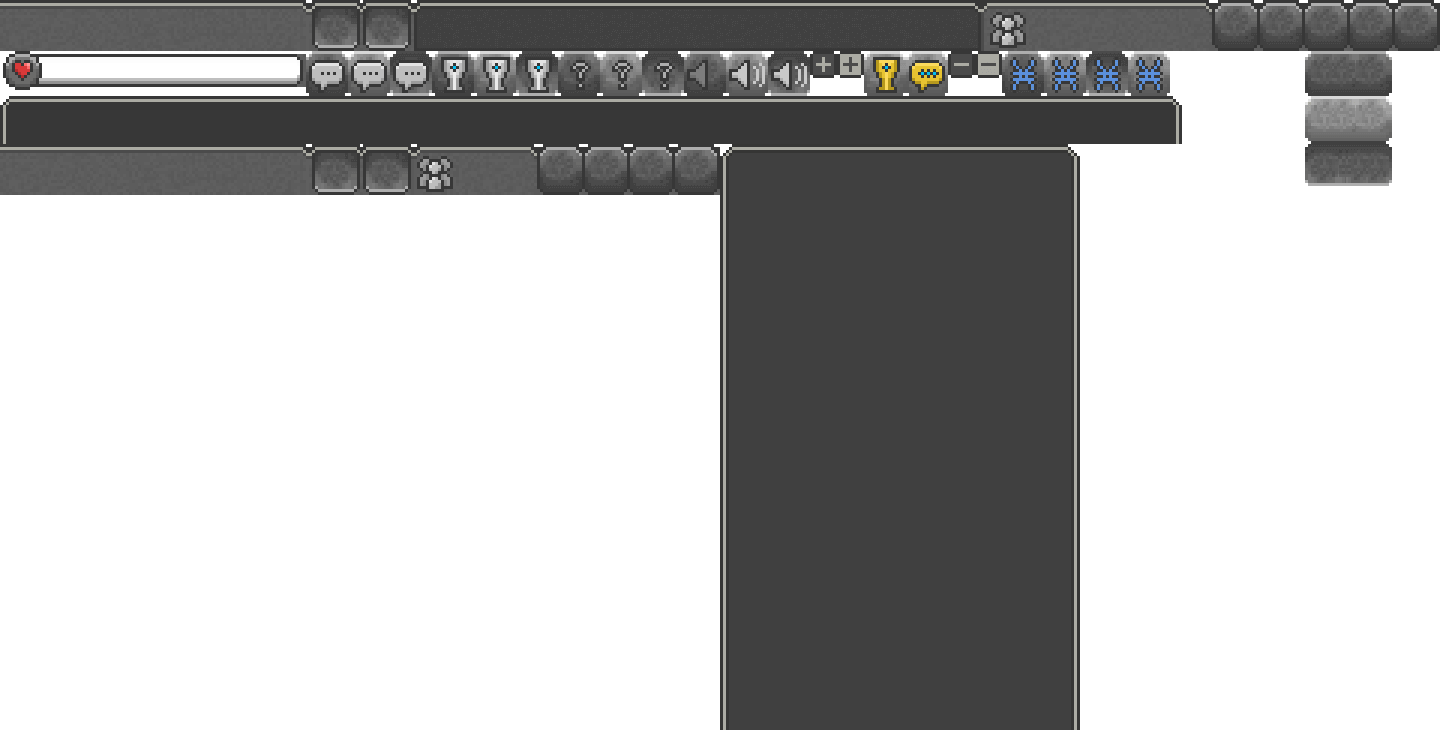
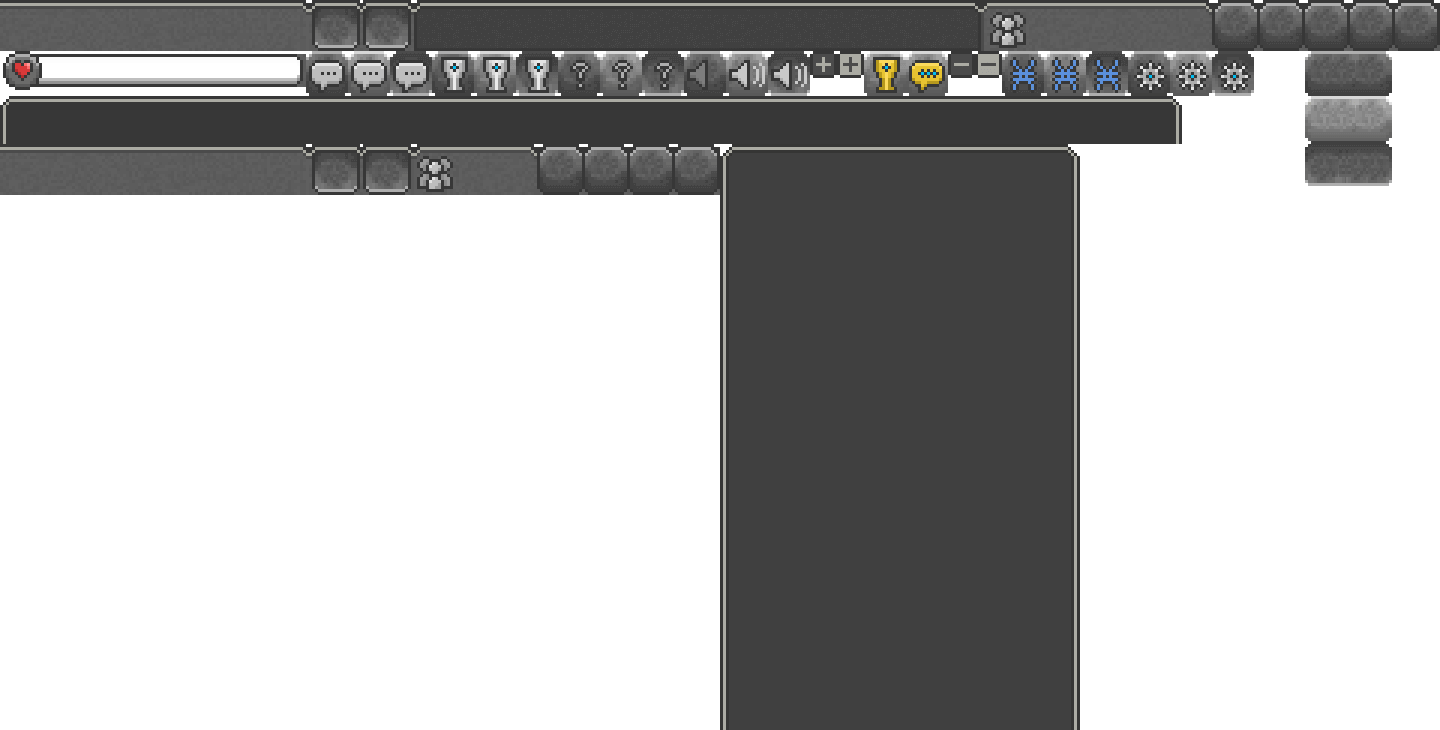
Add settings menu

Changed region(s): [[0.7812, 0.0603, 0.875, 0.1507]]

diff --git a/client/css/main.css b/client/css/main.css
@@ -125,7 +125,7 @@ footer, header, hgroup, menu, nav, section {
     /* body.upscaled.game {background:#000;} */
     .game #logo {display:none;-moz-animation:none;-webkit-animation:none;-o-animation:none;-ms-animation:none;animation:none;}
         
-    #logo, #logosparks, .left-ornament, .right-ornament, #character, #character div, .button, .button div, #respawn, #scroll, #instructions, #store, #completed, #failed, .icon, #tilt, .parchment-left, .parchment-middle, .parchment-right, .avatar, .facebook, .twitter, .close, #note, .ribbon .top, .ribbon .bottom, #about .img, .ext-link {background:url('../img/1/spritesheet.png');image-rendering:-moz-crisp-edges; image-rendering:-webkit-optimize-contrast;}
+    #logo, #logosparks, .left-ornament, .right-ornament, #character, #character div, .button, .button div, #respawn, #scroll, #instructions, #store, #settings, #party, #completed, #failed, .icon, #tilt, .parchment-left, .parchment-middle, .parchment-right, .avatar, .facebook, .twitter, .close, #note, .ribbon .top, .ribbon .bottom, #about .img, .ext-link {background:url('../img/1/spritesheet.png');image-rendering:-moz-crisp-edges; image-rendering:-webkit-optimize-contrast;}
     
     #moztab {height:49px;width:118px;position:fixed;top:0;right:15%;background:url('../img/1/spritesheet.png') no-repeat -229px -204px;display:block;}
 
@@ -235,8 +235,8 @@ footer, header, hgroup, menu, nav, section {
 
     .bubble p {-moz-user-select:none;-webkit-user-select:none;}
     
-    #instructions, #store, #completed, #failed {position:absolute;top:50%;left:50%;z-index:1000;font-family:'GraphicPixel';pointer-events:none;opacity:0;-moz-transition:0.25s opacity linear;-webkit-transition:0.4s top ease, 0.4s opacity linear;-o-transition:0.4s top ease, 0.4s opacity linear;-ms-transition:0.4s top ease, 0.4s opacity linear;transition:0.4s top ease, 0.4s opacity linear;}
-    #instructions.active, #store.active, #achievements.active, #completed.active, #failed.active {opacity:1;pointer-events:auto;}
+    #instructions, #store, #settings, #party, #completed, #failed {position:absolute;top:50%;left:50%;z-index:1000;font-family:'GraphicPixel';pointer-events:none;opacity:0;-moz-transition:0.25s opacity linear;-webkit-transition:0.4s top ease, 0.4s opacity linear;-o-transition:0.4s top ease, 0.4s opacity linear;-ms-transition:0.4s top ease, 0.4s opacity linear;transition:0.4s top ease, 0.4s opacity linear;}
+    #instructions.active, #store.active, #settings.active, #party.active, #achievements.active, #completed.active, #failed.active {opacity:1;pointer-events:auto;}
     
     #weapon, #armor {image-rendering:-moz-crisp-edges;}
 
@@ -285,7 +285,7 @@ footer, header, hgroup, menu, nav, section {
     @-webkit-keyframes blink { 0% {color:red;} 100% {color:#880000;}}
     .blink {-webkit-animation:blink 0.3s linear 5 alternate;-moz-animation:blink 0.3s linear 5 alternate;animation:blink 0.3s linear 5 alternate;}
 
-    #credits, #loadcharacter, #banned, #createaccount, #invalidconnection, #confirmation, #death, #store, #error, #about, #legal {position:absolute;left:50%;text-align:center;font-family:'GraphicPixel', sans-serif;z-index:1000;}
+    #credits, #loadcharacter, #banned, #createaccount, #invalidconnection, #confirmation, #death, #store, #settings, #party, #error, #about, #legal {position:absolute;left:50%;text-align:center;font-family:'GraphicPixel', sans-serif;z-index:1000;}
     
     #player-image {image-rendering: -moz-crisp-edges; image-rendering: -webkit-optimize-contrast;}
     
@@ -337,7 +337,7 @@ footer, header, hgroup, menu, nav, section {
     
     .alert {height:50px;background:#d83939;width:100%;color:#eee;font-size:20px;font-family:'GraphicPixel', arial, sans-serif;text-align:center;line-height:50px;border-bottom:1px solid #000;}
 
-    #instructions, #store, #achievements, #completed, #failed, #lists, #about, #credits, .ribbon, .play, .play div, .barbutton {-webkit-tap-highlight-color:transparent;}
+    #instructions, #store, #settings, #party, #achievements, #completed, #failed, #lists, #about, #credits, .ribbon, .play, .play div, .barbutton {-webkit-tap-highlight-color:transparent;}
     #nameinput::-webkit-input-placeholder  {color:#fff;}
 
     #resize-check {position:absolute;height:0;top:0;left:0;-moz-transition:0.001s height ease;-webkit-transition:0.001s height ease;-o-transition:0.001s height ease;-ms-transition:0.001s height ease;transition:0.001s height ease;}
@@ -723,7 +723,7 @@ footer, header, hgroup, menu, nav, section {
     .item-draggable, .item-not-draggable {background-color: transparent; z-index:2; border-radius: 4px; border: solid 2px #928f8c; background: #171717;}
     .ui-draggable-dragging { cursor: url(../img/2/loot.png) 2 5, move; }
 
-    .panel { cursor: url(../img/2/hand.png) 2 5, move; }
+    .panel, label, input[type=checkbox], #settings, #store { cursor: url(../img/2/hand.png) 2 5, move; }
     .panel-header {min-height: 4px;}
     .panel-header.reverse {transform: rotate(180deg);}
     .panel-spaced-row { display: flex; justify-content: space-between; align-items: center; padding: 0 10px}
@@ -891,8 +891,9 @@ footer, header, hgroup, menu, nav, section {
             height: 32px;
             width: 32px;
         }
+        .setting {font-size:20px;}
 
-	    .upscaled #logo, .upscaled #logosparks, .upscaled .left-ornament, .upscaled .right-ornament, .upscaled #character, .upscaled #character div, .upscaled .button, .upscaled .button div, .upscaled #respawn, .upscaled #scroll, .upscaled #instructions, .upscaled #store, .upscaled #completed, .upscaled #failed, .upscaled .icon, .upscaled #tilt, .upscaled .parchment-left, .upscaled .parchment-middle, .upscaled .parchment-right, .upscaled .avatar, .upscaled .facebook, .upscaled .twitter, .upscaled .close, .upscaled .ribbon .top, .upscaled .ribbon .bottom, .upscaled #about .img, .upscaled .ext-link {background-image:url('../img/3/spritesheet.png');}
+	    .upscaled #logo, .upscaled #logosparks, .upscaled .left-ornament, .upscaled .right-ornament, .upscaled #character, .upscaled #character div, .upscaled .button, .upscaled .button div, .upscaled #respawn, .upscaled #scroll, .upscaled #instructions, .upscaled #store, .upscaled #settings, .upscaled #party, .upscaled #completed, .upscaled #failed, .upscaled .icon, .upscaled #tilt, .upscaled .parchment-left, .upscaled .parchment-middle, .upscaled .parchment-right, .upscaled .avatar, .upscaled .facebook, .upscaled .twitter, .upscaled .close, .upscaled .ribbon .top, .upscaled .ribbon .bottom, .upscaled #about .img, .upscaled .ext-link {background-image:url('../img/3/spritesheet.png');}
 	    
 	    .upscaled #bar-container, .upscaled #healthbar, .upscaled .barbutton, .upscaled #chatbox, .upscaled #minimize, .upscaled .panel > div{background-image:url('../img/3/barsheet.png');}
 	    .upscaled #achievements, .upscaled #achievements li, .upscaled .coin, .upscaled #achievement-notification, .upscaled #coinsparks, .upscaled .achievement-sharing a, .upscaled #previous, .upscaled #next {background:url('../img/3/achievements.png');}
@@ -901,7 +902,7 @@ footer, header, hgroup, menu, nav, section {
 	    
         body {background:-moz-radial-gradient(rgba(0,0,0,0) 40%,rgba(0,0,0,1) 125%), url('../img/1/wood2.png') no-repeat 1587px 138px, url('../img/1/wood2.png') no-repeat 51px 519px, url('../img/1/wood3.png') no-repeat 228px 219px, url('../img/1/wood.png') repeat, #000; background-size:auto, 15px auto, 15px auto, 60px auto, 384px;}
         body {background:-webkit-gradient(radial, center center, 360, center center, 1200, from(rgba(0,0,0,0)), to(rgba(0,0,0,1))), url('../img/3/wood2.png') no-repeat 1587px 138px, url('../img/3/wood2.png') no-repeat 51px 519px, url('../img/3/wood3.png') no-repeat 228px 219px, url('../img/3/wood.png') repeat, #000; background-size:auto, 15px auto, 15px auto, 60px auto, 384px;}
-        #logo, #logosparks, .left-ornament, .right-ornament, #character, #character div, .button, .button div, #respawn, #scroll, #instructions, #store, #completed, #failed, .icon, .avatar, .close, #note, .ribbon .top, .ribbon .bottom, #about .img, .ext-link {background-size:1266px auto;}
+        #logo, #logosparks, .left-ornament, .right-ornament, #character, #character div, .button, .button div, #respawn, #scroll, #instructions, #store, #settings, #party, #completed, #failed, .icon, .avatar, .close, #note, .ribbon .top, .ribbon .bottom, #about .img, .ext-link {background-size:1266px auto;}
         #logo {height:126px;width:687px;position:absolute;top:42px;left:50%;margin-left:-244px;z-index:3;}
         #logosparks {width:687px;height:126px;z-index:4;-moz-animation:logo3 .8s steps(6, end) infinite;-webkit-animation:logo3 .8s steps(6, end) infinite;-o-animation:logo3 .8s steps(6, end) infinite;-ms-animation:logo3 .8s steps(6, end) infinite;}
         #parchment, #loadcharacter, #banned, #createaccount, #invalidconnection, #confirmation, #error, #legal {width:1266px;height:596px;position:absolute;top:55%;left:50%;margin-left:-633px;margin-top:-318px;font-size:30px;text-align:center;z-index:2;}
@@ -940,8 +941,8 @@ footer, header, hgroup, menu, nav, section {
 		#canvas {width:100%;height:672px;}
 		#fade {width:1440px;height:672px;top:15px;left:15px;}
 		
-		#instructions, #store, #completed, #failed {height:579px;width:1251px;background-position:0 -1704px;margin-left:-624px;margin-top:-312px;color:#373737;}
-		#instructions h1, #store h1, #completed h1, #failed h1 {font-size:40px;text-align:center;margin:50px 0 40px;}
+		#instructions, #store, #settings, #party, #completed, #failed {height:579px;width:1251px;background-position:0 -1704px;margin-left:-624px;margin-top:-312px;color:#373737;}
+		#instructions h1, #store h1, #settings h1, #party h1, #completed h1, #failed h1 {font-size:40px;text-align:center;margin:50px 0 40px;}
         #instructions ul {font-size:30px;margin-top:30px;}
         #instructions ul li {margin:0 0; clear:left;}
         #instructions ul li span {display:block;float:left;position: relative;}
@@ -1017,10 +1018,9 @@ footer, header, hgroup, menu, nav, section {
         #completedbutton {background-position:-1002px -51px;top:3px;left:1305px;width:42px;}
         #completedbutton:hover {background-position:-1044px -51px;}
         #completedbutton.active {background-position:-1086px -51px;}
-        /* #completedbutton.completed {background-position:-1170px -51px;} */
-        #mute-button {background-position:-684px -51px;top:3px;left:1395px;}
-        #mute-button:hover {background-position:-726px -51px;}
-        #mute-button.active {background-position:-768px -51px;}
+        #settings-button {background-position:-1128px -51px;top:3px;left:1395px;}
+        #settings-button:hover {background-position:-1170px -51px;}
+        #settings-button.active {background-position:-1212px -51px;}
         
         #chatbox {height:48px;width:1182px;background-size:1440px;background-position:0 -96px;margin-left:-591px;bottom:18px;}
         #chatbox.active {bottom:66px;}
@@ -1106,14 +1106,14 @@ footer, header, hgroup, menu, nav, section {
             width: 24px;
         }
 
-	    .upscaled #logo, .upscaled #logosparks, .upscaled .left-ornament, .upscaled .right-ornament, .upscaled #character, .upscaled #character div, .upscaled .button, .upscaled .button div, .upscaled #respawn, .upscaled #scroll, .upscaled #instructions, .upscaled #store, .upscaled #completed, .upscaled #failed, .upscaled .icon, .upscaled #tilt, .upscaled .parchment-left, .upscaled .parchment-middle, .upscaled .parchment-right, .upscaled .avatar, .upscaled .facebook, .upscaled .twitter, .upscaled .close, .upscaled .ribbon .top, .upscaled .ribbon .bottom, .upscaled #about .img, .upscaled .ext-link {background-image:url('../img/2/spritesheet.png');}
+	    .upscaled #logo, .upscaled #logosparks, .upscaled .left-ornament, .upscaled .right-ornament, .upscaled #character, .upscaled #character div, .upscaled .button, .upscaled .button div, .upscaled #respawn, .upscaled #scroll, .upscaled #instructions, .upscaled #store, .upscaled #settings, .upscaled #party, .upscaled #completed, .upscaled #failed, .upscaled .icon, .upscaled #tilt, .upscaled .parchment-left, .upscaled .parchment-middle, .upscaled .parchment-right, .upscaled .avatar, .upscaled .facebook, .upscaled .twitter, .upscaled .close, .upscaled .ribbon .top, .upscaled .ribbon .bottom, .upscaled #about .img, .upscaled .ext-link {background-image:url('../img/2/spritesheet.png');}
 	    .upscaled #bar-container, .upscaled #healthbar, .upscaled .barbutton, .upscaled #chatbox, .upscaled #minimize, .upscaled .panel > div{background-image:url('../img/2/barsheet.png');}
 	    .upscaled #achievements, .upscaled #achievements li, .upscaled .coin, .upscaled #achievement-notification, .upscaled #coinsparks, .upscaled .achievement-sharing a, .upscaled #previous, .upscaled #next {background-image:url('../img/2/achievements.png');}
         .upscaled .item-gem, .upscaled .item-nanopotion {background-image:url('../img/2/achievements-unlocks.png');}
 
         body {background:-moz-radial-gradient(rgba(0,0,0,0) 40%,rgba(0,0,0,1) 125%), url('../img/2/wood.png') repeat, #000; background-size:auto, 256px;}        
         body {background:-webkit-gradient(radial, center center, 240, center center, 800, from(rgba(0,0,0,0)), to(rgba(0,0,0,1))), url('../img/2/wood.png') repeat, #000; background-size:auto, 256px;}
-        #logo, #logosparks, .left-ornament, .right-ornament, #character, #character div, .button, .button div, #respawn, #scroll, #instructions, #store, #completed, #failed, .icon, .avatar, .close, #note, .ribbon .top, .ribbon .bottom, #about .img, .ext-link {background-size:844px auto;}
+        #logo, #logosparks, .left-ornament, .right-ornament, #character, #character div, .button, .button div, #respawn, #scroll, #instructions, #store, #settings, #party, #completed, #failed, .icon, .avatar, .close, #note, .ribbon .top, .ribbon .bottom, #about .img, .ext-link {background-size:844px auto;}
         #logo {height:84px;width:458px;position:absolute;top:10%;left:50%;margin-left:-179px;z-index:3;}
         #logosparks {width:458px;height:84px;z-index:4;-moz-animation:logo2 .8s steps(6, end) infinite;-webkit-animation:logo2 .8s steps(6, end) infinite;-o-animation:logo2 .8s steps(6, end) infinite;-ms-animation:logo2 .8s steps(6, end) infinite;}
         #parchment, #loadcharacter, #banned, #createaccount, #invalidconnection, #confirmation, #error, #legal {width:844px;height:400px;position:absolute;top:55%;left:50%;margin-left:-422px;margin-top:-220px;font-size:20px;text-align:center; z-index:2;}
@@ -1135,7 +1135,7 @@ footer, header, hgroup, menu, nav, section {
         #login-play-link.play.loading img {height:16px;width:16px;}
         .stroke, .achievement-name {text-shadow:2px 2px 0 #373737, 2px -2px 0 #373737, 0 2px 0 #373737, 2px 0 0 #373737, -2px 2px 0 #373737, -2px -2px 0 #373737, 0 -2px 0 #373737, 0 2px 0 #373737, -2px 0 0 #373737;}
         
-        #loadcharacter h1, #banned h1, #createaccount h1, #invalidconnection h1, #confirmation h1, #error h1, #legal h1 {margin-top:20px;}
+        #loadcharacter h1, #banned h1, #createaccount h1, #invalidconnection h1, #confirmation h1, #error h1, #legal h1 {margin-top: 30px; margin-bottom: 10px;}
         /* #playername {margin-top:10px;} */
         .loadcharacter .play, .confirmation .delete {margin:6px auto 0 auto;}
         #confirmation p, #error p {font-size:20px;margin-top:40px;line-height:30px;}
@@ -1152,8 +1152,8 @@ footer, header, hgroup, menu, nav, section {
 		#canvas {width:100%;height:448px;}
 		#fade {width:960px;height:448px;top:10px;left:10px;}
 
-		#instructions, #store, #completed, #failed {height:386px;width:834px;background-position:0 -1136px;margin-left:-416px;margin-top:-210px;color:#373737;}
-		#instructions h1, #store h1, #completed h1, #failed h1 {font-size:30px;text-align:center;margin:40px 0 30px;}
+		#instructions, #store, #settings, #party, #completed, #failed {height:386px;width:834px;background-position:0 -1136px;margin-left:-416px;margin-top:-210px;color:#373737;}
+		#instructions h1, #store h1, #settings h1, #party h1, #completed h1, #failed h1 {font-size:30px;text-align:center;margin:40px 0 30px;}
         #completed h1 { margin-bottom: 0}
         #instructions ul {font-size:20px;margin-top:20px;}
         #instructions ul li {margin:20px 0; clear:left;}
@@ -1239,9 +1239,9 @@ footer, header, hgroup, menu, nav, section {
         #completedbutton:hover {background-position:-696px -34px;}
         #completedbutton.active {background-position:-724px -34px;}
         /* #completedbutton.completed {background-position:-752px -34px;} */
-        #mute-button {background-position:-456px -34px;top:2px;left:930px;}
-        #mute-button:hover {background-position:-484px -34px;}
-        #mute-button.active {background-position:-512px -34px;}
+        #settings-button {background-position:-752px -34px;top:2px;left:930px;}
+        #settings-button:hover {background-position:-780px -34px;}
+        #settings-button.active {background-position:-808px -34px;}
 
 		#chatbox {height:32px;width:788px;background-size:960px;background-position:0 -64px;margin-left:-394px;bottom:12px;}
 		#chatbox.active {bottom:44px;}
@@ -1259,7 +1259,7 @@ footer, header, hgroup, menu, nav, section {
 
         #credits h1, #about h1 {margin-top:25px;font-weight:normal;}
         #credits h1 a {font-size:24px;}
-        .game #credits h1, .game #about h1 {margin-top:40px;}
+        .game #credits h1, .game #about h1 {margin-top:60px;}
         #credits h1 span.title {max-width:200px;display:inline-block;line-height:26px;margin-top:-60px;position:relative;top:24px;}
         #authors {clear:both;margin-top:70px;}
         #guillaume, #franck {width:47%;line-height:26px;}
@@ -1326,11 +1326,11 @@ footer, header, hgroup, menu, nav, section {
             background: url(../img/1/achievements.png);
         }
         .upscaled .item-gem, .upscaled .item-nanopotion {background-image:url('../img/1/achievements-unlocks.png');}
-        #logo, #logosparks, .left-ornament, .right-ornament, #character, #character div, .button, .button div, #respawn, #scroll, #instructions, #store, #completed, #failed, .icon, .avatar, .close, #note, .ribbon .top, .ribbon .bottom, #about .img, .ext-link {background-size:422px auto;}
+        #logo, #logosparks, .left-ornament, .right-ornament, #character, #character div, .button, .button div, #respawn, #scroll, #instructions, #store, #settings, #party, #completed, #failed, .icon, .avatar, .close, #note, .ribbon .top, .ribbon .bottom, #about .img, .ext-link {background-size:422px auto;}
         #logo {height:42px;width:229px;position:absolute;top:10%;left:50%;margin-left:-64px;z-index:3;}
         #logosparks {width:229px;height:42px;z-index:4;-moz-animation:logo1 .8s steps(6, end) infinite;-webkit-animation:logo1 .8s steps(6, end) infinite;-o-animation:logo1 .8s steps(6, end) infinite;-ms-animation:logo1 .8s steps(6, end) infinite;}
         #parchment, #loadcharacter, #banned, #createaccount, #invalidconnection, #confirmation, #error, #legal {width:422px;height:198px;position:absolute;top:50%;left:50%;margin-left:-211px;margin-top:-101px;font-size:10px;text-align:center;z-index:2;}
-        #parchment h1, #instructions h1, #store h1, #completed h1, #failed h1 {margin-top:20px;font-weight:normal;}
+        #parchment h1, #instructions h1, #store h1, #settings h1, #party h1, #completed h1, #failed h1 {margin-top:20px;font-weight:normal;}
         .left-ornament, .right-ornament {height:12px;width:31px;display:inline-block;margin:0 10px;position:relative;top:3px;}
         .left-ornament {background-position:-354px 0;}
         .right-ornament {background-position:-385px 0;}
@@ -1368,8 +1368,8 @@ footer, header, hgroup, menu, nav, section {
             width: 32px;
         }
 		
-		#instructions, #store, #completed, #failed {height:193px;width:417px;background-position:0 -568px;margin-left:-208px;margin-top:-103px;color:#373737;}
-		#instructions h1, #store h1, #completed h1, #failed h1 {font-size:20px;text-align:center;margin-bottom:0;}
+		#instructions, #store, #settings, #party, #completed, #failed {height:193px;width:417px;background-position:0 -568px;margin-left:-208px;margin-top:-103px;color:#373737;}
+		#instructions h1, #store h1, #settings h1, #party h1, #completed h1, #failed h1 {font-size:20px;text-align:center;margin-bottom:0;}
         #instructions ul {font-size:10px;margin-top:10px;}
         #instructions ul li {margin:10px 0; clear:left;}
         #instructions ul li span {display:block;float:left;position: relative;}
@@ -1450,9 +1450,9 @@ footer, header, hgroup, menu, nav, section {
         #achievementsbutton:hover, #achievementsbutton.blink:hover {background-position:-158px -17px;}
         #achievementsbutton.blink {background-position:-288px -17px;}
         #achievementsbutton.active {background-position:-172px -17px;}
-        #mute-button {background-position:-228px -17px;top:1px;left:465px;}
-        #mute-button:hover {background-position:-242px -17px;}
-        #mute-button.active {background-position:-256px -17px;}
+        #settings-button {background-position:-376px -17px;top:1px;left:465px;}
+        #settings-button:hover {background-position:-390px -17px;}
+        #settings-button.active {background-position:-404px -17px;}
 
 		#chatbox {height:16px;width:394px;background-size:480px;background-position:0 -32px;margin-left:-197px;bottom:6px;}
 		#chatbox.active {bottom:22px;}
@@ -1551,13 +1551,13 @@ footer, header, hgroup, menu, nav, section {
 		#canvasborder {background:none;padding:0;}
         #expbar{right:0;width: 10px;}
 		
-		#parchment, #logosparks, .left-ornament, .right-ornament, #character, #character div, .button, .button div, #respawn, #scroll, #instructions, #store, #completed, #failed, .icon {background-size:422px auto;}
+		#parchment, #logosparks, .left-ornament, .right-ornament, #character, #character div, .button, .button div, #respawn, #scroll, #instructions, #store, #settings, #party, #completed, #failed, .icon {background-size:422px auto;}
         #parchment {background:none;}
         #logo {height:42px;width:229px;position:absolute;top:10%;left:50%;margin-left:-114px;z-index:3;background-size:422px;}
         /* #logo {height:84px;width:458px;position:absolute;top:10%;left:50%;margin-left:-229px;z-index:3;background-size:844px;} */
         #parchment {width:100%;height:auto;position:absolute;left:0;top:82px;margin-left:0;margin-top:0;font-size:10px;text-align:center;z-index:2;color:#eee;}
         #parchment h1 {margin-top:0px;font-weight:normal;}
-        #instructions h1, #store h1, #completed h1, #failed h1 {margin-top:15px;font-size:14px;}
+        #instructions h1, #store h1, #settings h1, #party h1, #completed h1, #failed h1 {margin-top:15px;font-size:14px;}
         .left-ornament, .right-ornament {height:12px;width:31px;display:inline-block;margin:0 10px;position:relative;top:3px;}
         .left-ornament {background-position:-354px 0;}
         .right-ornament {background-position:-385px 0;}
@@ -1575,8 +1575,8 @@ footer, header, hgroup, menu, nav, section {
         .stroke {text-shadow:1px 1px 0 #373737, 1px -1px 0 #373737, 0 1px 0 #373737, 1px 0 0 #373737, -1px 1px 0 #373737, -1px -1px 0 #373737, 0 -1px 0 #373737, 0 1px 0 #373737, -1px 0 0 #373737;}
         .validation-error {color:#ffc2c2;}
 		
-		#instructions, #store, #completed, #failed {height:193px;width:417px;background-position:0 -568px;margin-left:-208px;margin-top:-113px;color:#373737;}
-		#instructions h1, #store h1, #completed h1, #failed h1 {font-size:20px;text-align:center;margin-bottom:0;}
+		#instructions, #store, #settings, #party, #completed, #failed {height:193px;width:417px;background-position:0 -568px;margin-left:-208px;margin-top:-113px;color:#373737;}
+		#instructions h1, #store h1, #settings h1, #party h1, #completed h1, #failed h1 {font-size:20px;text-align:center;margin-bottom:0;}
         #instructions ul {font-size:13px;margin-top:15px;}
         #instructions ul li {margin:10px 0; clear:left;}
         #instructions ul li span {display:block;float:left;position: relative;}
@@ -1646,7 +1646,7 @@ footer, header, hgroup, menu, nav, section {
         #completedbutton {background-position:-668px -34px;top:2px;left:420px;width:28px;}
         #completedbutton:hover {background-position:-696px -34px;}
         #completedbutton.active {background-position:-724px -34px;}
-        #mute-button { display: none; }
+        #settings-button { display: none; }
 
 		#chatbox {height:32px;width:480px;background-size:960px;background-position:0 -64px;margin-left:-240px;bottom:2px;}
 		#chatbox.active {bottom:34px;}
@@ -1715,7 +1715,7 @@ footer, header, hgroup, menu, nav, section {
 /* Tablet mode */
 
     .tablet .animate .parchment-left, .tablet .animate .parchment-right, .tablet .animate .parchment-middle {-webkit-animation:none;-moz-animation:none;-o-animation:none;-ms-animation:none;}
-    .tablet #instructions, .tablet #store, .tablet #completed, .tablet #failed, .tablet #achievements, .tablet #lists {-webkit-transition:none;-moz-transition:none;-o-transition:none;-ms-transition:none;transition:none;}
+    .tablet #instructions, .tablet #store, .tablet #settings, .tablet #party, .tablet #completed, .tablet #failed, .tablet #achievements, .tablet #lists {-webkit-transition:none;-moz-transition:none;-o-transition:none;-ms-transition:none;transition:none;}
     .tablet #achievements li.unlocked .achievement-sharing {display:block;}
     .tablet #coinsparks {display:none; -moz-animation:none;}
     
@@ -1724,7 +1724,7 @@ footer, header, hgroup, menu, nav, section {
     
 /* Workarounds for chrome windows bugs */
 
-    .windows #parchment, .windows #parchment input, .windows , #store input, .windows #parchment textarea, .windows #notifications, .windows #instructions, .windows #store, .windows #completed, .windows #failed, .windows #achievements, .windows #achievement-notification, 
+    .windows #parchment, .windows #parchment input, .windows , #store input, .windows #parchment textarea, .windows #notifications, .windows #instructions, .windows #store, .windows #settings, .windows #party, .windows #completed, .windows #failed, .windows #achievements, .windows #achievement-notification, 
     .windows #player-count, .windows #credits, .windows #loadcharacter, .windows #banned, .windows #invalidconnection, .windows #confirmation, .windows #death, .windows #error, .windows #about, .windows #legal, 
     .windows #parchment p, .windows #portrait p, .windows .alert, .windows footer, .windows .bubble p, .windows #population .windows #player, .windows #chatinput {font-family:'AdvoCut';}
 

diff --git a/client/index.html b/client/index.html
@@ -307,6 +307,18 @@
                         or to <a href="https://www.reddit.com/user/Opposite_Objective34/">u/Opposite_Objective34</a> on Reddit.
                     </div>
                 </article>
+                <article id="settings" class="clickable">
+                    <div class="close"></div>
+                    <h1>
+                        <span class="left-ornament"></span>
+                        Settings
+                        <span class="right-ornament"></span>
+                    </h1>
+                    <div class="setting">
+                        <input type="checkbox" id="mute-checkbox">
+                        <label for="mute-checkbox">Game music and sounds</label>
+                    </div>
+                </article>
                 <article id="instructions" class="clickable">
                     <div class="close"></div>
                     <h1>
@@ -461,7 +473,7 @@
                         <div id="chatbutton" class="barbutton clickable"></div>
                         <div id="achievementsbutton" class="barbutton clickable"></div>
                         <div id="completedbutton" class="barbutton clickable"></div>
-                        <div id="mute-button" class="barbutton clickable"></div>
+                        <div id="settings-button" class="barbutton clickable"></div>
                     </div>
                 </div>
 

diff --git a/client/js/app.ts b/client/js/app.ts
@@ -307,10 +307,10 @@ class App {
     $("#party-player-list").empty().html(partyHtml);
   }
 
-  updatePartyHealthBar(member: { playerId: number; hitPoints: number; maxHitPoints: number }) {
-    const { playerId: id, hitPoints, maxHitPoints } = member;
+  updatePartyHealthBar(member: { id: number; hp: number; mHp: number }) {
+    const { id, hp, mHp } = member;
 
-    $(`#player-health-${id}`).css("width", `${Math.floor((hitPoints * 100) / maxHitPoints)}%`);
+    $(`#player-health-${id}`).css("width", `${Math.floor((hp * 100) / mHp)}%`);
   }
 
   removePartyHealthBar() {
@@ -556,6 +556,10 @@ class App {
     }
   }
 
+  toggleSettings() {
+    $("#settings").toggleClass("active");
+  }
+
   resetAchievementPage() {
     var self = this;
     var $achievements = $("#achievements");
@@ -645,6 +649,11 @@ class App {
 
     if ($("#store").hasClass("active")) {
       this.store.closeStore();
+    }
+
+    if ($("#settings").hasClass("active")) {
+      this.toggleSettings();
+      $("#settings-button").removeClass("active");
     }
   }
 
@@ -823,7 +832,7 @@ class App {
   }
 
   toggleMute() {
-    if ($("#mute-button").hasClass("active")) {
+    if ($("#mute-checkbox").is(":checked")) {
       this.storage.setAudioEnabled(true);
       this.game.audioManager.enableAudio();
     } else {

diff --git a/client/js/index.ts b/client/js/index.ts
@@ -634,8 +634,8 @@ var initGame = function () {
         case Types.Keys.H:
           $("#completedbutton").click();
           break;
-        case Types.Keys.M:
-          $("#mute-button").click();
+        case Types.Keys.O:
+          $("#settings-button").click();
           break;
         case Types.Keys.P:
           $("#player-count").click();
@@ -708,7 +708,11 @@ var initGame = function () {
     $("#name-tooltip").removeClass("visible");
   });
 
-  $("#mute-button").click(function () {
+  $("#settings-button").on("click", () => {
+    app.toggleSettings();
+  });
+
+  $("#mute-checkbox").on("change", function () {
     app.toggleMute();
   });
 

diff --git a/server/js/worldserver.ts b/server/js/worldserver.ts
@@ -390,9 +390,9 @@ class World {
         this.pushToParty(
           player.getParty(),
           new Messages.Party(Types.Messages.PARTY_ACTIONS.HEALTH, {
-            playerId: player.id,
-            hitPoints: player.hitPoints,
-            maxHitPoints: player.maxHitPoints,
+            id: player.id,
+            hp: player.hitPoints,
+            mHp: player.maxHitPoints,
           }),
           player,
         );

diff --git a/server/js/player.ts b/server/js/player.ts
@@ -1419,9 +1419,9 @@ class Player extends Character {
       this.server.pushToParty(
         this.getParty(),
         new Messages.Party(Types.Messages.PARTY_ACTIONS.HEALTH, {
-          playerId: this.id,
-          hitPoints: this.hitPoints,
-          maxHitPoints,
+          id: this.id,
+          hp: this.hitPoints,
+          mHp: maxHitPoints,
         }),
         this,
       );

diff --git a/client/js/types/app.ts b/client/js/types/app.ts
@@ -19,6 +19,7 @@ export interface App {
   blinkInterval: NodeJS.Timeout;
   toggleCompleted: () => void;
   toggleAbout: () => void;
+  toggleSettings: () => void;
   togglePopulationInfo: () => void;
   togglePlayerInfo: () => void;
   toggleInventory: () => void;

diff --git a/client/js/game.ts b/client/js/game.ts
@@ -495,7 +495,7 @@ class Game {
     if (!self.storage.isAudioEnabled()) {
       self.audioManager.disableAudio();
     } else {
-      $("#mute-button").addClass("active");
+      $("#mute-checkbox").prop("checked", true);
     }
   }
 

diff --git a/shared/js/gametypes.ts b/shared/js/gametypes.ts
@@ -235,6 +235,7 @@ export const Types: any = {
     I: 73,
     H: 72,
     M: 77,
+    O: 79,
     P: 80,
     KEYPAD_4: 100,
     KEYPAD_6: 102,
